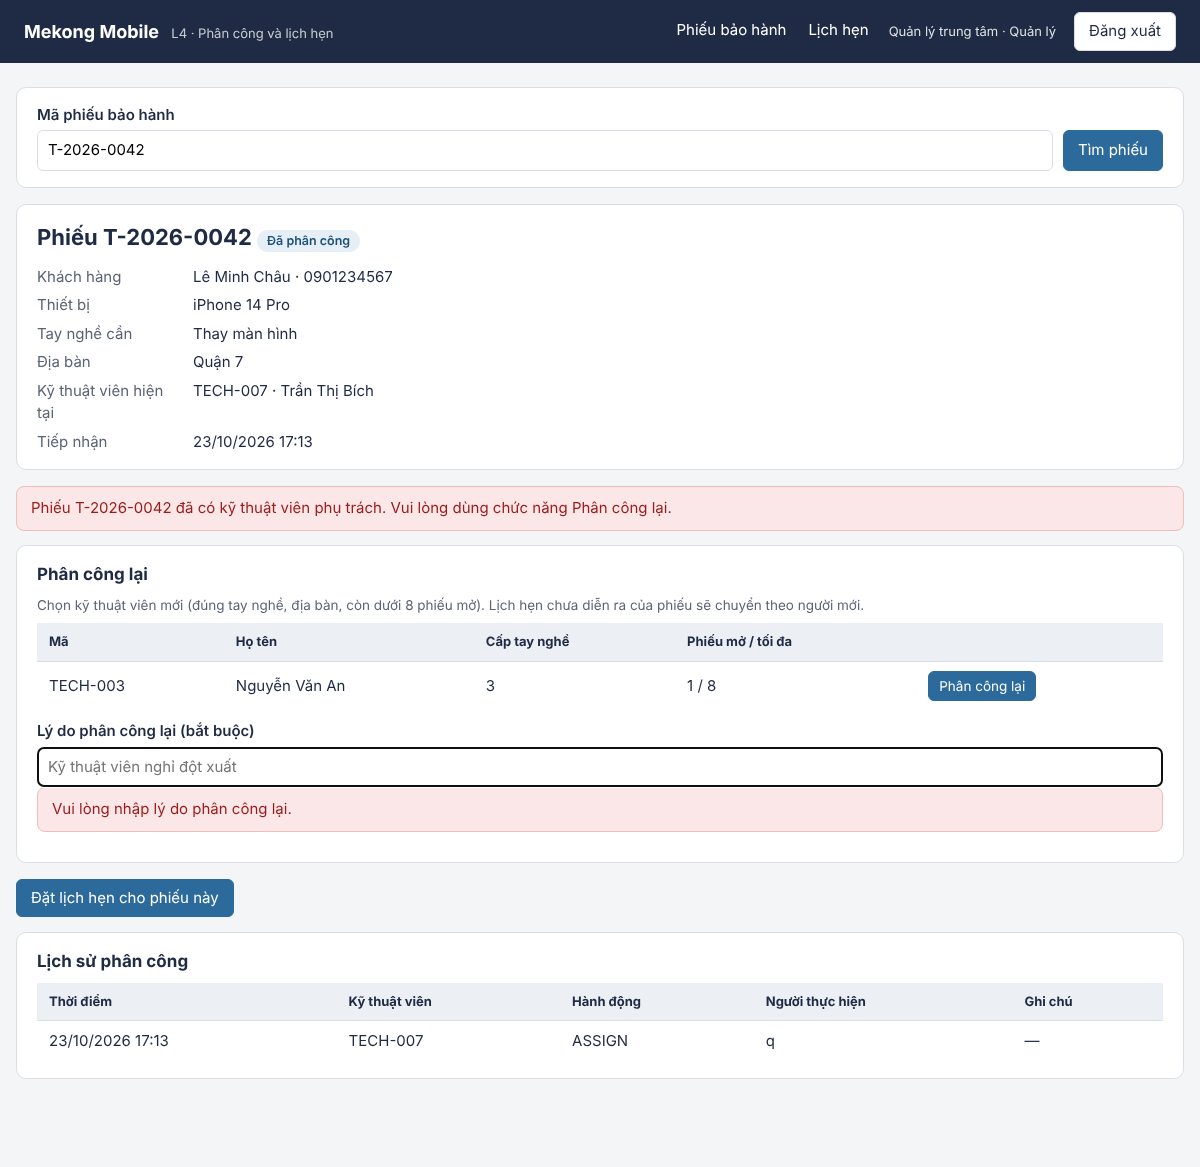
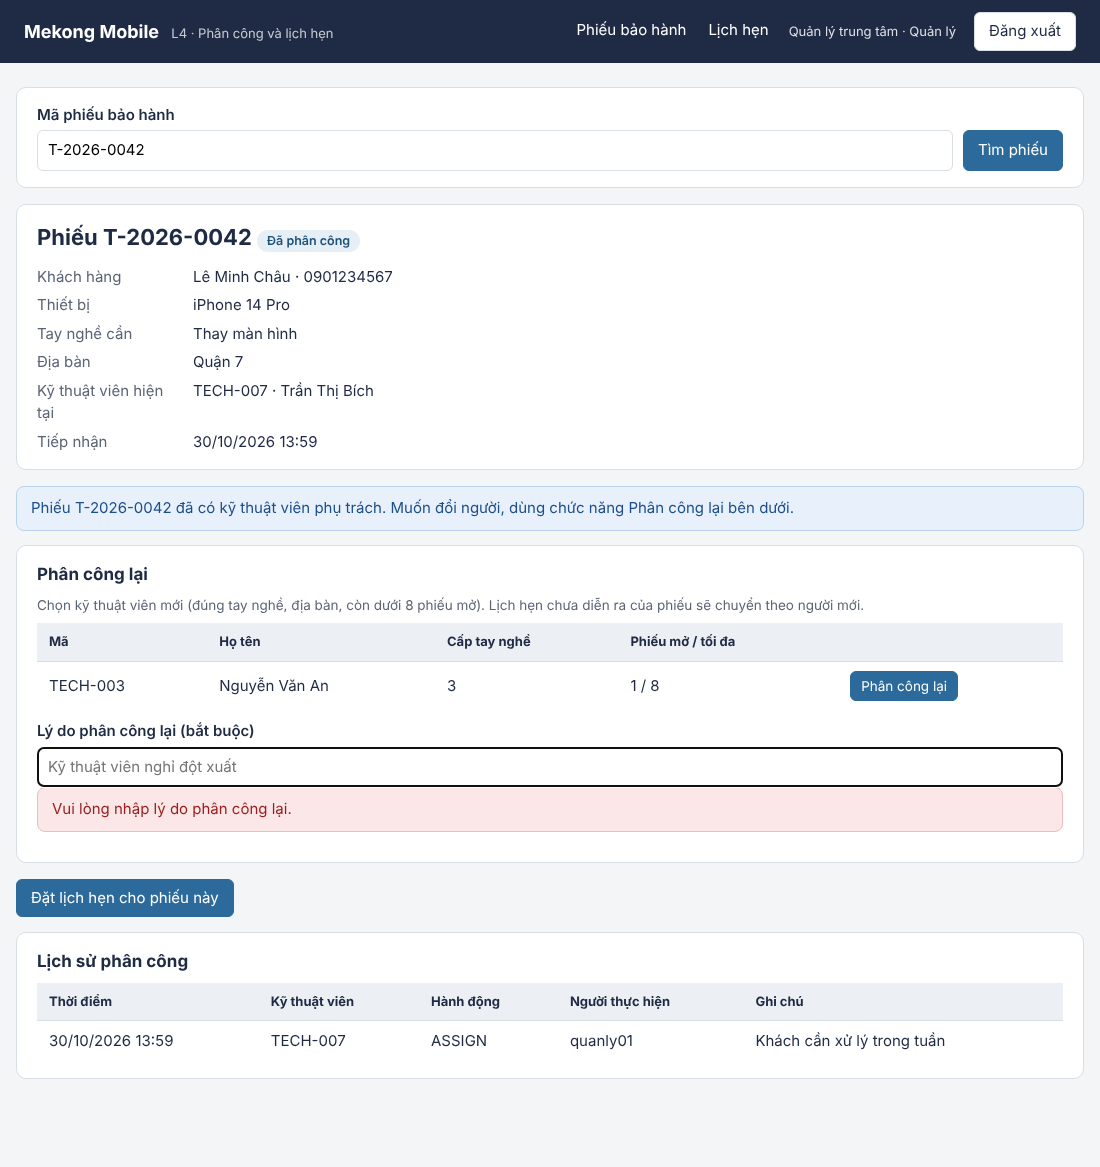
fix(ui): dải thông tin thay dải đỏ ở chi tiết phiếu đã phân công; chụp lại ảnh

diff --git a/src/frontend/pages/TicketDetailPage.js b/src/frontend/pages/TicketDetailPage.js
@@ -1,6 +1,6 @@
 // Màn hình – CHI TIẾT phiếu (GET /tickets/{mã}) + gợi ý và phân công kỹ thuật viên (wireframe M1: UC1, UC2).
 // Bố cục theo M1: tìm phiếu → thông tin phiếu → kỹ thuật viên gợi ý → ghi chú → (phân công lại) → lịch sử phân công.
-import { h, table, ticketBadge, banner, fmtTime, SKILL } from '../components/ui.js';
+import { h, table, ticketBadge, banner, fmtTime, SKILL, TICKET_STATUS } from '../components/ui.js';
 import { mountDataState } from '../components/DataState.js';
 import { TicketSearch } from '../components/TicketSearch.js';
 import { getTicket, getSuggestions, assignTechnician, reassignTechnician } from '../api/ticket.api.js';
@@ -43,7 +43,9 @@ export function TicketDetailPage(container, { user, params }) {
     }
     if (user.role === 'MANAGER' && t.status !== 'WAITING_ASSIGNMENT') {
       // [1a] Phiếu đã có kỹ thuật viên: không phân công lần đầu nữa; dùng Phân công lại (FR3, UC5)
-      el.append(banner('error', `Phiếu ${t.ticket_code} đã có kỹ thuật viên phụ trách. Vui lòng dùng chức năng Phân công lại.`));
+      el.append(banner('info', t.status === 'ASSIGNED'
+        ? `Phiếu ${t.ticket_code} đã có kỹ thuật viên phụ trách. Muốn đổi người, dùng chức năng Phân công lại bên dưới.`
+        : `Phiếu ${t.ticket_code} đang ở trạng thái ${TICKET_STATUS[t.status] || t.status}, không phân công lại được.`));
       if (t.status === 'ASSIGNED' && t.technician) {
         const reason = h('input', { id: 'reassign-reason', maxlength: 255, placeholder: 'Kỹ thuật viên nghỉ đột xuất' });
         const box = h('div', {}); const rnotice = h('div', {});

diff --git a/src/frontend/styles.css b/src/frontend/styles.css
@@ -48,6 +48,7 @@ tbody tr:last-child td { border-bottom: 0; }
 .banner { padding: 10px 14px; border-radius: 8px; margin: 0 0 14px; border: 1px solid transparent; }
 .banner-ok { background: var(--ok-bg); color: var(--ok-ink); border-color: #b9e0c6; }
 .banner-error { background: var(--err-bg); color: var(--err-ink); border-color: #f0bcbc; }
+.banner-info { background: #e8f1fb; color: #1d4f8c; border-color: #b8d3f0; }
 .banner-warn { background: var(--warn-bg); color: var(--warn-ink); border-color: #f1d6a3; }
 .state { padding: 18px; text-align: center; border-radius: 10px; margin: 0; }
 .state-loading { color: var(--muted); } .state-empty { color: var(--muted); background: var(--surface); border: 1px dashed var(--line); }
